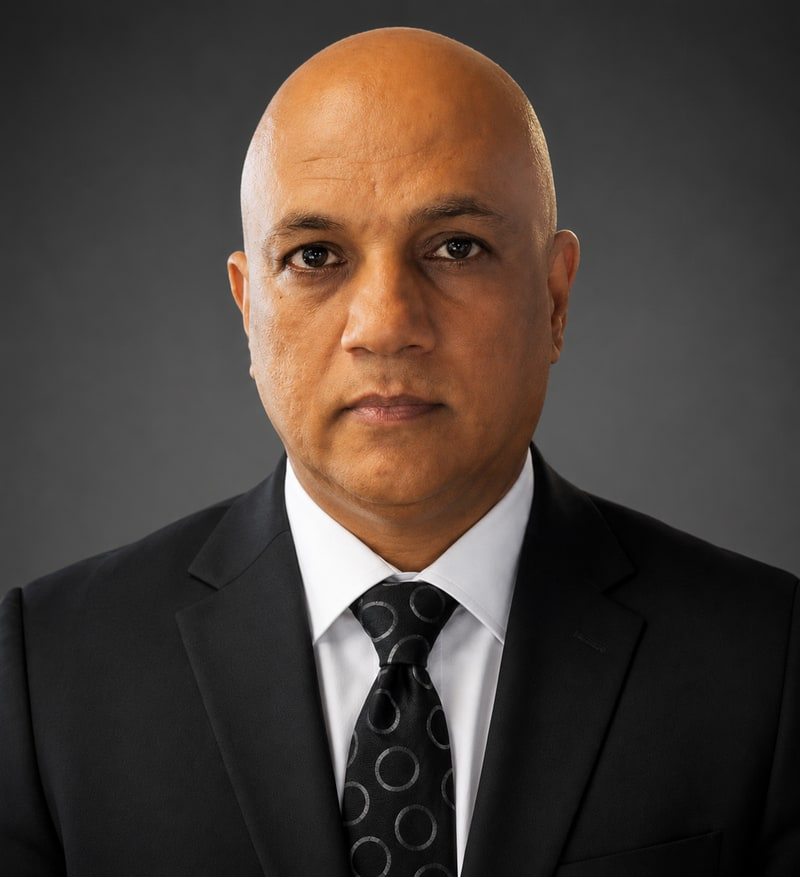
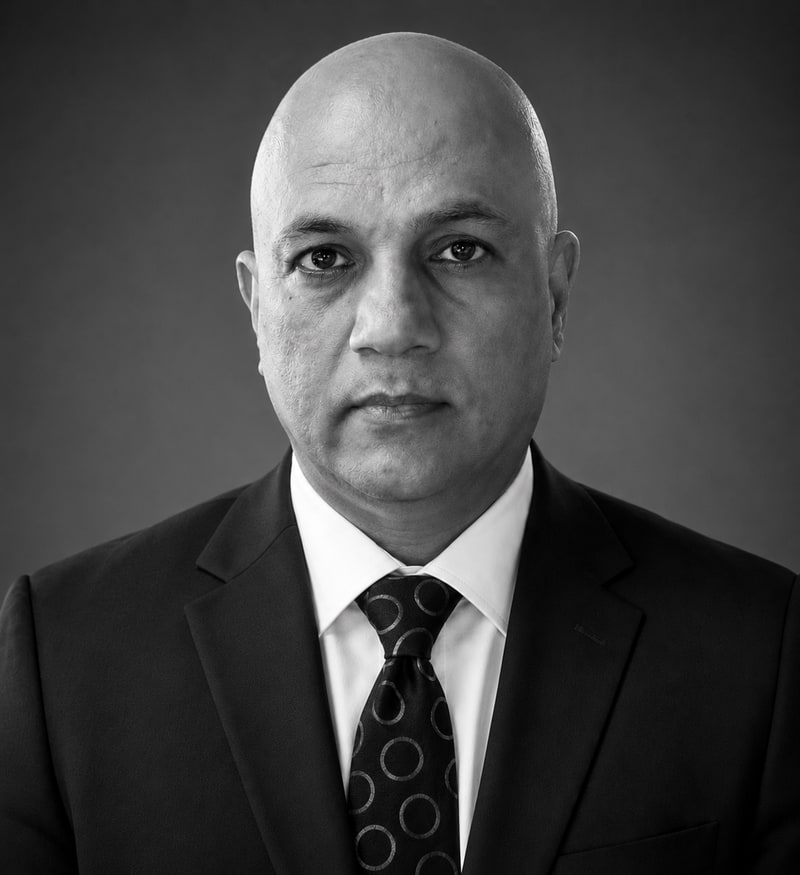
Swap Arshdeep + Ramesh portraits to B&W to match other team photos

diff --git a/people/arshdeep-singh/index.html b/people/arshdeep-singh/index.html
@@ -6,7 +6,7 @@
   <title>Arshdeep Singh — Alliance Productions India LLP</title>
   <meta name="description" content="Arshdeep Singh — Managing Director, Alliance Media Pty Ltd (Australia). The international operator behind Alliance Productions India's globally-positioned slate." />
   <link rel="icon" href="../../assets/logo/api-emblem-w200.png" />
-  <link rel="stylesheet" href="../../styles.css?v=1778758971498" />
+  <link rel="stylesheet" href="../../styles.css?v=1778761496210" />
 </head>
 <body>
   <a class="skip-link" href="#main">Skip to content</a>
@@ -123,6 +123,6 @@
     </div>
   </div>
 
-  <script src="../../script.js?v=1778758971498"></script>
+  <script src="../../script.js?v=1778761496210"></script>
 </body>
 </html>

diff --git a/studio/index.html b/studio/index.html
@@ -6,7 +6,7 @@
   <title>Studio — Alliance Productions India LLP</title>
   <meta name="description" content="Alliance Productions India LLP — helmed by Deepak Tijori, with 35+ years of cinema, an expanded leadership team, and a slate of films built for international audiences." />
   <link rel="icon" href="../assets/logo/api-emblem-w200.png" />
-  <link rel="stylesheet" href="../styles.css?v=1778758971498" />
+  <link rel="stylesheet" href="../styles.css?v=1778761496210" />
 </head>
 <body>
   <a class="skip-link" href="#main">Skip to content</a>
@@ -330,6 +330,6 @@
     </div>
   </div>
 
-  <script src="../script.js?v=1778758971498"></script>
+  <script src="../script.js?v=1778761496210"></script>
 </body>
 </html>

diff --git a/films/tom-dick-and-harry/index.html b/films/tom-dick-and-harry/index.html
@@ -10,7 +10,7 @@
   <meta property="og:title" content="Tom, Dick, and Marry" />
   <meta property="og:description" content="The original 2006 ensemble that launched the franchise — three friends with three impairments and one impossible week. The franchise's tone, audience and IP all start here." />
   <meta property="og:image" content="assets/films/tom-dick-and-harry-w2400.jpg" />
-  <link rel="stylesheet" href="../../styles.css?v=1778758971498" />
+  <link rel="stylesheet" href="../../styles.css?v=1778761496210" />
 </head>
 <body>
 
@@ -168,6 +168,6 @@
     </div>
   </div>
 
-  <script src="../../script.js?v=1778758971498"></script>
+  <script src="../../script.js?v=1778761496210"></script>
 </body>
 </html>

diff --git a/upcoming/index.html b/upcoming/index.html
@@ -6,7 +6,7 @@
   <title>Upcoming — Alliance Productions India LLP</title>
   <meta name="description" content="Five projects in development at Alliance Productions India LLP — Kabuliwala (Atiq Rahimi), Misfired, Defiant Nadia, Tom, Dick & Marry 3, and Khoj." />
   <link rel="icon" href="../assets/logo/api-emblem-w200.png" />
-  <link rel="stylesheet" href="../styles.css?v=1778758971498" />
+  <link rel="stylesheet" href="../styles.css?v=1778761496210" />
 </head>
 <body>
   <a class="skip-link" href="#main">Skip to content</a>
@@ -175,6 +175,6 @@
     </div>
   </div>
 
-  <script src="../script.js?v=1778758971498"></script>
+  <script src="../script.js?v=1778761496210"></script>
 </body>
 </html>

diff --git a/films/khamoshh-khauff-ki-raat/index.html b/films/khamoshh-khauff-ki-raat/index.html
@@ -10,7 +10,7 @@
   <meta property="og:title" content="Khamoshh... Khauff Ki Raat" />
   <meta property="og:description" content="A rainy night, a hit-and-run, a roadside motel and one passenger who is not who they seem — a single-location thriller engineered for tight, contained execution." />
   <meta property="og:image" content="assets/films/khamoshh-w2400.jpg" />
-  <link rel="stylesheet" href="../../styles.css?v=1778758971498" />
+  <link rel="stylesheet" href="../../styles.css?v=1778761496210" />
 </head>
 <body>
 
@@ -169,6 +169,6 @@
     </div>
   </div>
 
-  <script src="../../script.js?v=1778758971498"></script>
+  <script src="../../script.js?v=1778761496210"></script>
 </body>
 </html>

diff --git a/people/deepak-tijori/index.html b/people/deepak-tijori/index.html
@@ -6,7 +6,7 @@
   <title>Deepak Tijori — Alliance Productions India LLP</title>
   <meta name="description" content="Deepak Tijori — Managing Director, Director and Producer at Alliance Productions India LLP. 35+ years across Indian cinema." />
   <link rel="icon" href="../../assets/logo/api-emblem-w200.png" />
-  <link rel="stylesheet" href="../../styles.css?v=1778758971498" />
+  <link rel="stylesheet" href="../../styles.css?v=1778761496210" />
 </head>
 <body>
   <a class="skip-link" href="#main">Skip to content</a>
@@ -414,6 +414,6 @@
     </div>
   </div>
 
-  <script src="../../script.js?v=1778758971498"></script>
+  <script src="../../script.js?v=1778761496210"></script>
 </body>
 </html>

diff --git a/films/do-lafzon-ki-kahani/index.html b/films/do-lafzon-ki-kahani/index.html
@@ -10,7 +10,7 @@
   <meta property="og:title" content="Do Lafzon Ki Kahani" />
   <meta property="og:description" content="A Randeep Hooda and Kajal Aggarwal romance shot through with action — a quiet, performance-led love story for an audience that has aged into prestige drama." />
   <meta property="og:image" content="assets/films/do-lafzon-ki-kahani-w2400.jpg" />
-  <link rel="stylesheet" href="../../styles.css?v=1778758971498" />
+  <link rel="stylesheet" href="../../styles.css?v=1778761496210" />
 </head>
 <body>
 
@@ -239,6 +239,6 @@
     </div>
   </div>
 
-  <script src="../../script.js?v=1778758971498"></script>
+  <script src="../../script.js?v=1778761496210"></script>
 </body>
 </html>

diff --git a/people/index.html b/people/index.html
@@ -6,7 +6,7 @@
   <title>People — Alliance Productions India LLP</title>
   <meta name="description" content="The leadership and creative team behind Alliance Productions India LLP — Deepak Tijori, Snehal Kulshreshtha, Anita Sharma, Mandeep Kaur Tijori." />
   <link rel="icon" href="../assets/logo/api-emblem-w200.png" />
-  <link rel="stylesheet" href="../styles.css?v=1778758971498" />
+  <link rel="stylesheet" href="../styles.css?v=1778761496210" />
 </head>
 <body>
   <a class="skip-link" href="#main">Skip to content</a>
@@ -121,6 +121,6 @@
     </div>
   </div>
 
-  <script src="../script.js?v=1778758971498"></script>
+  <script src="../script.js?v=1778761496210"></script>
 </body>
 </html>

diff --git a/index.html b/index.html
@@ -16,7 +16,7 @@
   <meta name="twitter:title" content="Alliance Productions India LLP" />
   <meta name="twitter:description" content="Indian identity. International ambition. Bollywood, Hollywood, and global cinema." />
   <meta name="twitter:image" content="https://allianceproductionsindia.com/assets/logo/api-llp-logo-w1200.png" />
-  <link rel="stylesheet" href="styles.css?v=1778758971498" />
+  <link rel="stylesheet" href="styles.css?v=1778761496210" />
 </head>
 <body>
   <a class="skip-link" href="#main">Skip to content</a>
@@ -512,6 +512,6 @@
     </div>
   </div>
 
-  <script src="script.js?v=1778758971498"></script>
+  <script src="script.js?v=1778761496210"></script>
 </body>
 </html>

diff --git a/films/fox/index.html b/films/fox/index.html
@@ -10,7 +10,7 @@
   <meta property="og:title" content="Fox" />
   <meta property="og:description" content="A disgraced lawyer turned author is arrested for a string of homicides — a Mumbai legal thriller with an unreliable-narrator hook that travels well into international crime catalogues." />
   <meta property="og:image" content="assets/films/fox-w2400.jpg" />
-  <link rel="stylesheet" href="../../styles.css?v=1778758971498" />
+  <link rel="stylesheet" href="../../styles.css?v=1778761496210" />
 </head>
 <body>
 
@@ -169,6 +169,6 @@
     </div>
   </div>
 
-  <script src="../../script.js?v=1778758971498"></script>
+  <script src="../../script.js?v=1778761496210"></script>
 </body>
 </html>

diff --git a/people/ramesh-sharma/index.html b/people/ramesh-sharma/index.html
@@ -6,7 +6,7 @@
   <title>Ramesh Sharma — Alliance Productions India LLP</title>
   <meta name="description" content="Ramesh Sharma — Co-Producer at Alliance Productions India LLP. From Holy Cow to a Cannes-bound Echoes of Us." />
   <link rel="icon" href="../../assets/logo/api-emblem-w200.png" />
-  <link rel="stylesheet" href="../../styles.css?v=1778758971498" />
+  <link rel="stylesheet" href="../../styles.css?v=1778761496210" />
 </head>
 <body>
   <a class="skip-link" href="#main">Skip to content</a>
@@ -124,6 +124,6 @@
     </div>
   </div>
 
-  <script src="../../script.js?v=1778758971498"></script>
+  <script src="../../script.js?v=1778761496210"></script>
 </body>
 </html>

diff --git a/news/index.html b/news/index.html
@@ -6,7 +6,7 @@
   <title>News &amp; Press — Alliance Productions India LLP</title>
   <meta name="description" content="Press, interviews, festival news and award coverage for Alliance Productions India LLP and its founder Deepak Tijori." />
   <link rel="icon" href="../assets/logo/api-emblem-w200.png" />
-  <link rel="stylesheet" href="../styles.css?v=1778758971498" />
+  <link rel="stylesheet" href="../styles.css?v=1778761496210" />
 </head>
 <body>
   <a class="skip-link" href="#main">Skip to content</a>
@@ -177,6 +177,6 @@
     </div>
   </div>
 
-  <script src="../script.js?v=1778758971498"></script>
+  <script src="../script.js?v=1778761496210"></script>
 </body>
 </html>
